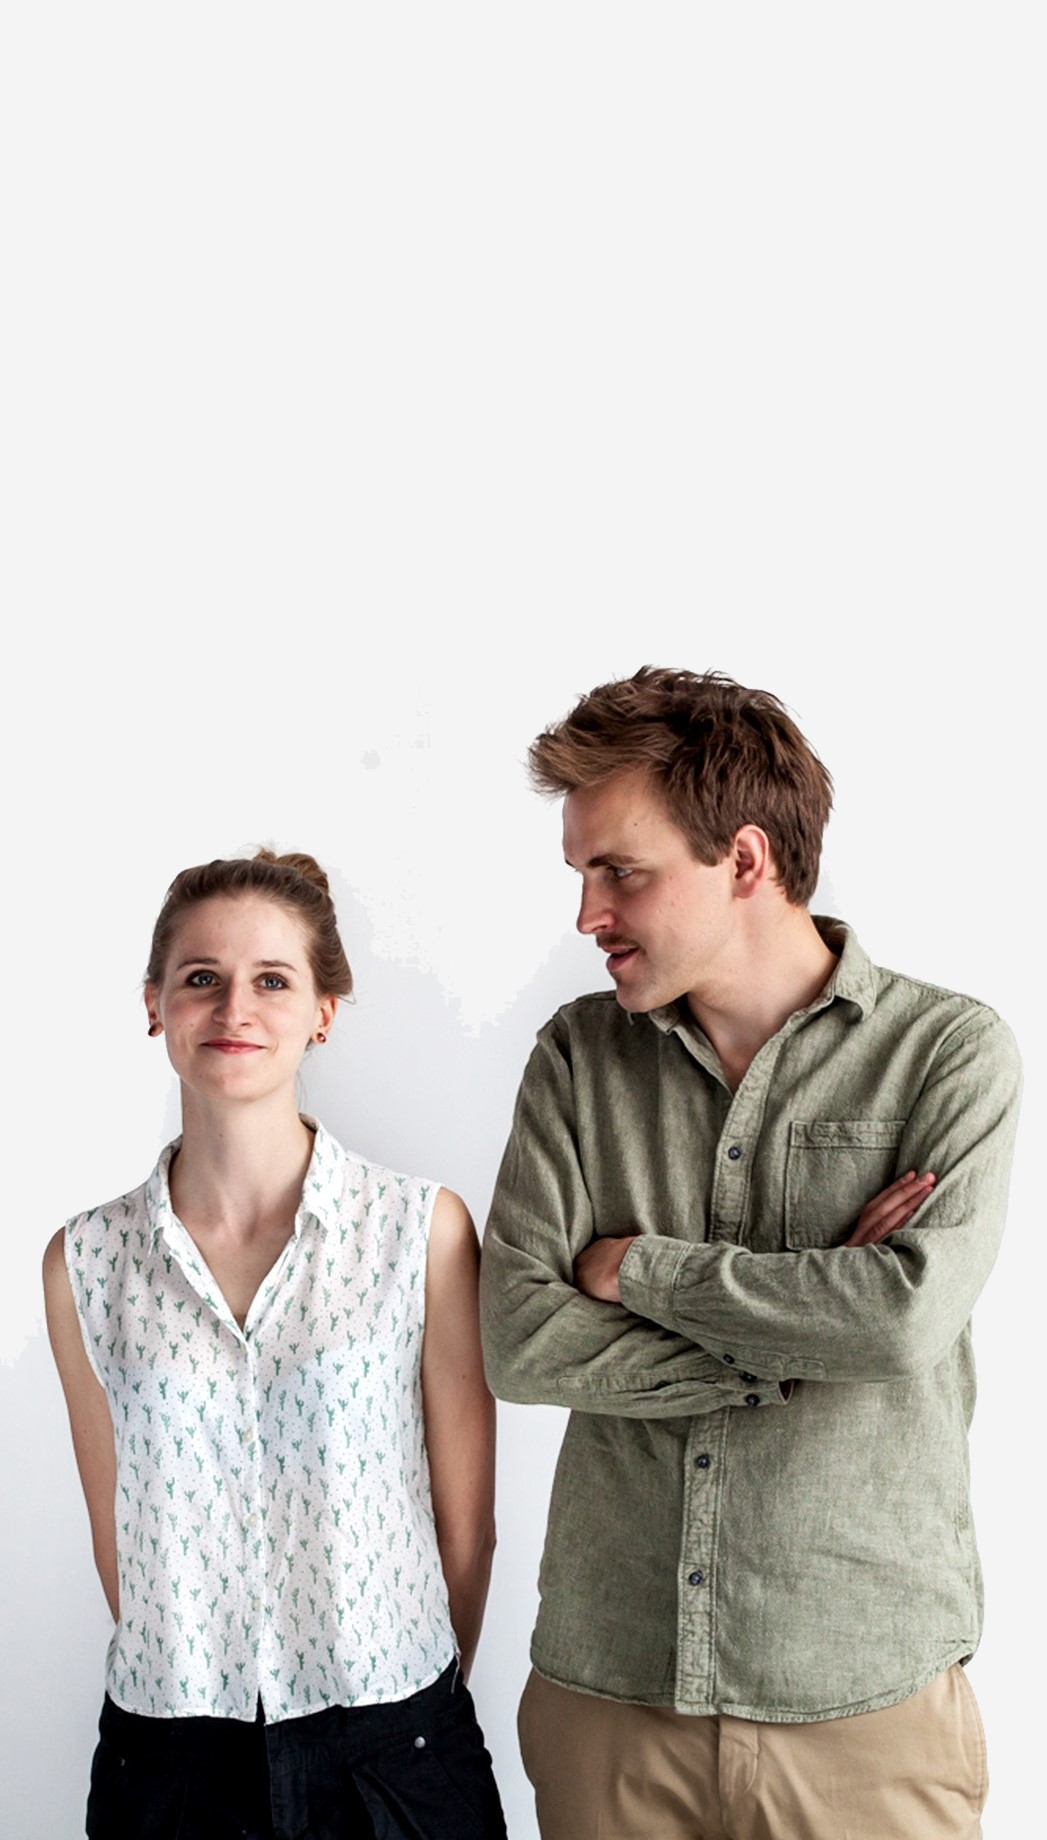
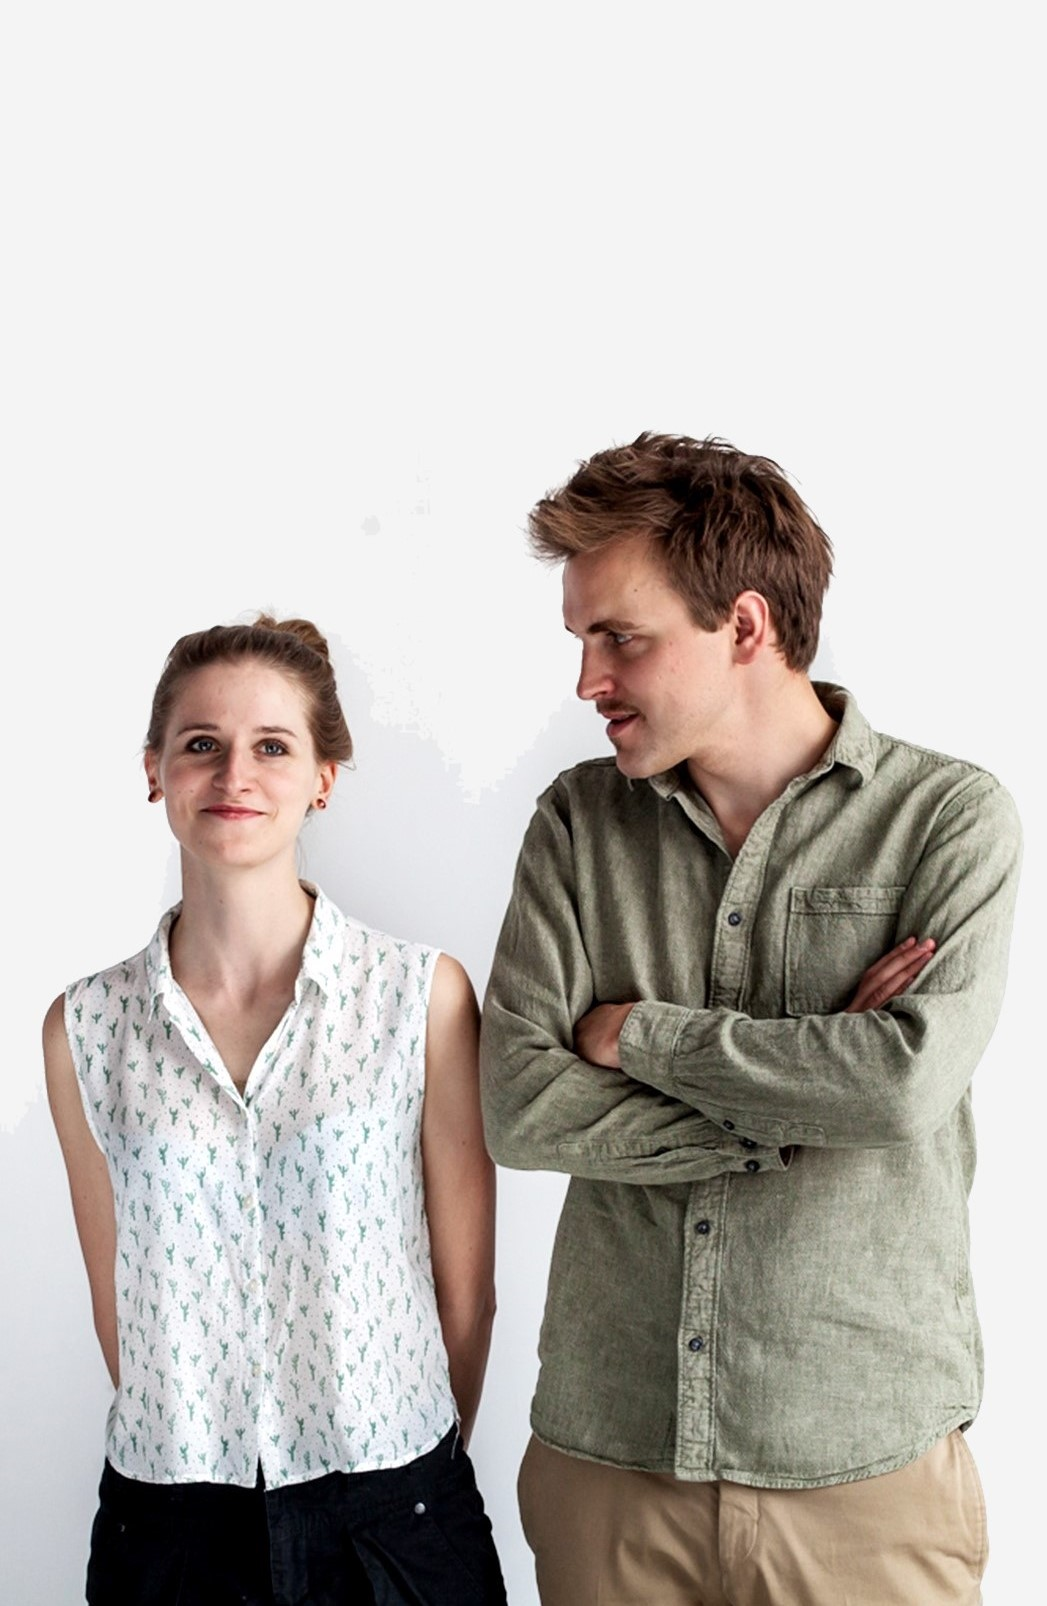
responsive look upgraded, grammar fix

Changed region(s): [[0.0306, 0.2491, 0.978, 0.9963], [0.8558, 0.9651, 0.9475, 0.9963]]

diff --git a/web/static/css/my-style.css b/web/static/css/my-style.css
@@ -13,14 +13,13 @@
 	.intro {
 		background-image:radial-gradient(circle at 50% 50%,rgba(0,0,0,0.46),rgba(0,0,0,0.88)),url('../img/1sm.jpg');
 		background-size: 100%;
-		background-repeat: no-repeat;
-		background-position: bottom;
+		background-position: top;
 	}
 }
 
 @media(max-width:350px) {
 	.intro {
-		background-position: top;
+		background-image:radial-gradient(circle at 50% 50%,rgba(0,0,0,0.46),rgba(0,0,0,0.88)),url('../img/1xs.jpg');
 	}
 }
 
